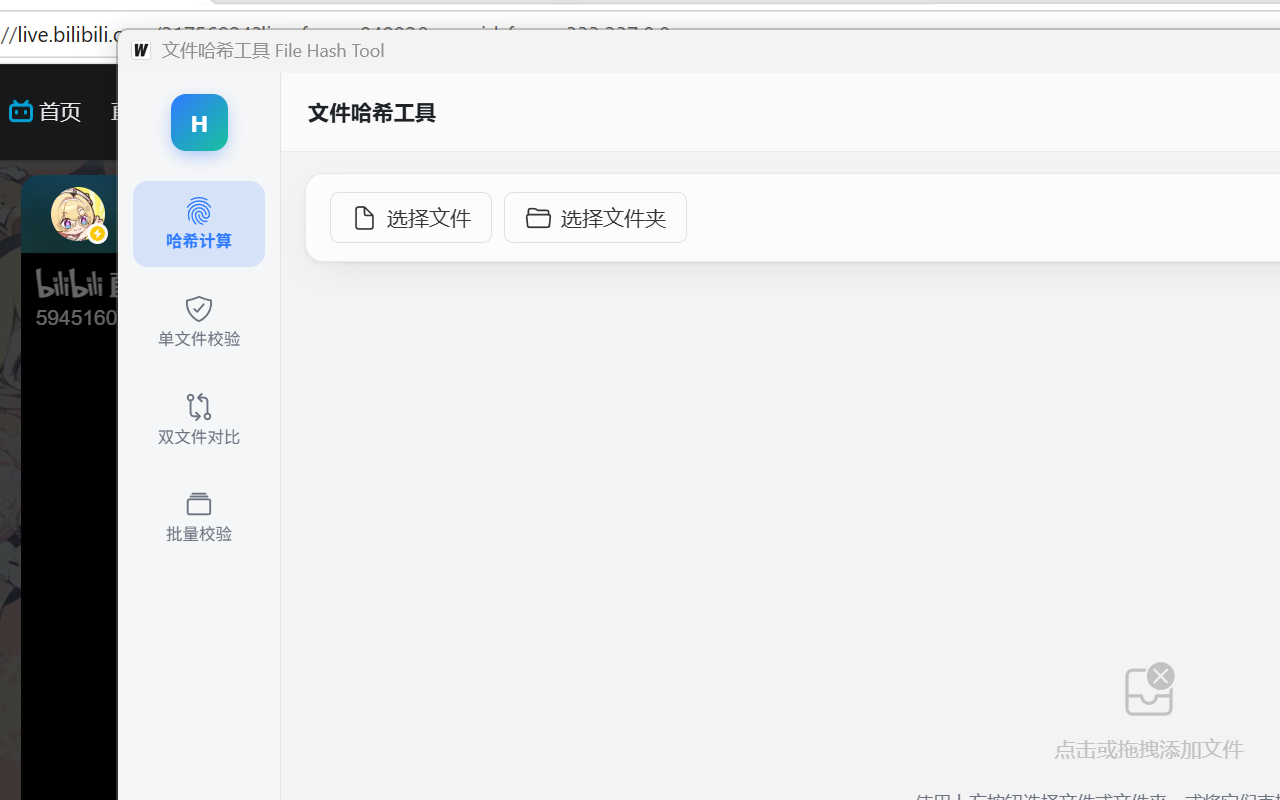
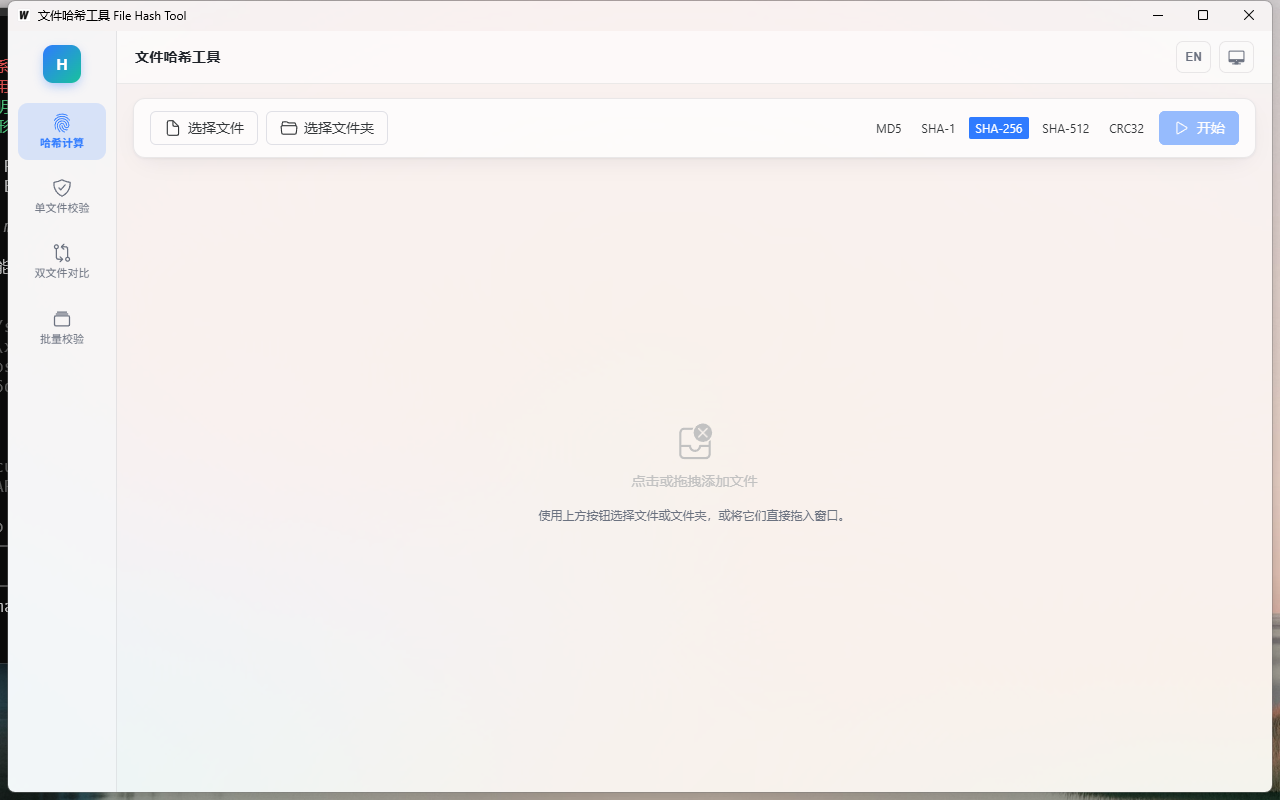
docs: MIT 协议、中英双 README（README_EN.md）、修复截图 DPI 伪影重拍主图
- LICENSE: MIT © 2026 WanQTs
- README.md 纯中文版 / README_EN.md 英文版，顶部互链，补 License 徽章
- smoke-test.ps1 声明 Per-Monitor DPI 感知，截图坐标统一物理像素，重拍 docs/screenshot-main.png

diff --git a/README.md b/README.md
@@ -5,35 +5,36 @@
 # 文件哈希工具 · File Hash Tool
 
 **Windows 64 位桌面文件哈希工具：计算 · 校验 · 对比 · 批量清单验证**
-**A fast Windows 64-bit desktop tool to compute, verify and compare file hashes.**
 
 [![Release](https://img.shields.io/github/v/release/WanQTs/GoHashTool)](https://github.com/WanQTs/GoHashTool/releases)
 ![Go](https://img.shields.io/badge/Go-1.25%2B-00ADD8?logo=go&logoColor=white)
 ![Wails](https://img.shields.io/badge/Wails-v3.0.0--beta.9-E03C31)
 ![Vue](https://img.shields.io/badge/Vue-3.5-4FC08D?logo=vuedotjs&logoColor=white)
 ![Platform](https://img.shields.io/badge/Platform-Windows_10%2F11-0078D6)
+[![License: MIT](https://img.shields.io/badge/License-MIT-green.svg)](LICENSE)
 
-<img src="docs/screenshot-main.png" alt="主界面 / Main window" width="840" />
+**简体中文 | [English](README_EN.md)**
+
+<img src="docs/screenshot-main.png" alt="主界面" width="840" />
 
 </div>
 
 ---
 
-## ✨ 功能 / Features
+## ✨ 功能
 
-- **哈希计算 / Hash**：多选文件、文件夹递归、整窗拖拽添加；MD5 / SHA-1 / SHA-256 / SHA-512 / CRC32 多算法一次扫描；结果表格虚拟滚动（十万级行数不卡）；点击哈希值复制；不可读子目录生成「无权限」结果行，绝不静默漏算。
-- **单文件校验 / Verify**：粘贴期望哈希，按长度自动识别算法（32=MD5、40=SHA-1、64=SHA-256、128=SHA-512），大字号给出「一致 / 不一致」结论。
-- **双文件对比 / Compare**：选两个文件同算法对比，并排展示各算法哈希值。
-- **批量校验 / Batch Verify**：导入 md5sum/sha256sum 标准清单（.sha256/.sha1/.sha512/.md5/.txt/.sum/.sums，支持 `#` 注释行），扩展名×哈希长度交叉校验识别算法；基准目录可切换；输出 通过/不一致/缺失/无法读取 四类统计与明细；一键导出问题项。
-- **导出 / Export**：CSV（带 UTF-8 BOM，Excel 直开不乱码）与标准 SUM 格式；导出的 SUM 可被批量校验重新导入（闭环，有集成测试保障）。CRC32 因无法重新导入而不提供 SUM 导出。
-- **界面 / UI**：Mica 云母窗口材质（Win11，低版本系统自动回退）、浅色/深色主题（默认跟随系统）、中英双语即时切换（默认跟随系统语言）、150–250ms 过渡动画、空状态引导。
+- **哈希计算**：多选文件、文件夹递归、整窗拖拽添加；MD5 / SHA-1 / SHA-256 / SHA-512 / CRC32 多算法一次扫描；结果表格虚拟滚动（十万级行数不卡）；点击哈希值复制；不可读子目录生成「无权限」结果行，绝不静默漏算。
+- **单文件校验**：粘贴期望哈希，按长度自动识别算法（32=MD5、40=SHA-1、64=SHA-256、128=SHA-512），大字号给出「一致 / 不一致」结论。
+- **双文件对比**：选两个文件同算法对比，并排展示各算法哈希值。
+- **批量校验**：导入 md5sum/sha256sum 标准清单（.sha256/.sha1/.sha512/.md5/.txt/.sum/.sums，支持 `#` 注释行），扩展名×哈希长度交叉校验识别算法；基准目录可切换；输出 通过/不一致/缺失/无法读取 四类统计与明细；一键导出问题项。
+- **导出**：CSV（带 UTF-8 BOM，Excel 直开不乱码）与标准 SUM 格式；导出的 SUM 可被批量校验重新导入（闭环，有集成测试保障）。CRC32 因无法重新导入而不提供 SUM 导出。
+- **界面**：Mica 云母窗口材质（Win11，低版本系统自动回退）、浅色/深色主题（默认跟随系统）、中英双语即时切换（默认跟随系统语言）、150–250ms 过渡动画、空状态引导。
 
-## 📥 下载 / Download
+## 📥 下载
 
 前往 [**Releases**](https://github.com/WanQTs/GoHashTool/releases) 下载 `GoHashTool-*.exe`——单文件绿色软件，双击即用，无需安装（另附 UPX 压缩版，体积更小）。
-Single-file portable exe from the [Releases page](https://github.com/WanQTs/GoHashTool/releases) — no installation needed.
 
-## 🚀 使用方法 / Usage
+## 🚀 使用方法
 
 1. **哈希计算**：点击「选择文件 / 选择文件夹」，或直接把文件/文件夹拖进窗口；勾选算法（默认 SHA-256）后点「开始」。计算中显示总进度条、当前文件、已用时间、实时速度，可随时取消。
 2. **单文件校验**：选择文件并粘贴期望哈希值，自动识别算法，完成后显示对比结论。
@@ -41,12 +42,12 @@ Single-file portable exe from the [Releases page](https://github.com/WanQTs/GoHa
 4. **批量校验**：选择清单文件（或直接把清单文件拖进窗口，会自动跳转并开始校验）；默认以清单所在目录为基准解析相对路径，也可手动指定其他基准目录。
 5. **导出**：结果出来后点击「导出 CSV」或「导出 SUM」；批量校验页可单独导出问题项。
 
-## 📊 性能实测 / Performance Report
+## 📊 性能实测
 
-测试硬件 / Test hardware:
+测试硬件：
 
-- CPU: AMD Ryzen 9 9950X 16-Core · 磁盘 / Disk: TOPMORE Dubhe NVMe SSD · 内存 / RAM: 96 GB
-- 系统 / OS: Windows 11 专业工作站版 · Go 1.26.6（标准库 SHA-256/SHA-512 走 SHA-NI/AVX2 汇编路径）
+- CPU: AMD Ryzen 9 9950X 16-Core · 磁盘: TOPMORE Dubhe NVMe SSD · 内存: 96 GB
+- 系统: Windows 11 专业工作站版 · Go 1.26.6（标准库 SHA-256/SHA-512 走 SHA-NI/AVX2 汇编路径）
 
 `go test -run='^$' -bench=. -benchtime=1x ./internal/hashcore/` 实测输出：
 
@@ -69,13 +70,12 @@ BenchmarkManySmallFiles-32        1    84642400 ns/op    10.24 MB_total
 | 内存占用 | RSS 增量 < 100 MB | 流式 + 池化缓冲，任意大小文件内存恒定；启动后 RSS ≈ 33 MB | ✅ |
 
 > 基准夹具在同一进程内跨 benchmark 复用，首轮后可能命中 OS 页缓存——上表为**热缓存吞吐**，非冷盘首读成绩。
-> Fixtures are reused within one process and may hit the OS page cache — these are warm-cache numbers.
 
 设计取舍（详见源码注释）：流式读取 + 自适应缓冲（<64MB 用 1MB、大文件 16MB，`sync.Pool` 复用）；大文件双缓冲流水线（预读与哈希计算重叠）；多算法 `io.MultiWriter` 一次扫描；小文件 worker pool 并发 `min(NumCPU, 8)`；进度上报 200ms 节流、表格数据分批 ≤500 条推送。
 
-## 🛠 从零构建 / Build from Scratch
+## 🛠 从零构建
 
-前置条件 / Prerequisites:
+前置条件：
 
 - Go 1.25+、Node.js 20.19+（Vite 7 要求）
 - Wails CLI v3：`go install github.com/wailsapp/wails/v3/cmd/wails3@v3.0.0-beta.9`
@@ -83,37 +83,37 @@ BenchmarkManySmallFiles-32        1    84642400 ns/op    10.24 MB_total
 - `wails3 doctor` 全部通过
 
 ```bash
-# 1. 安装前端依赖 / install frontend deps
+# 1. 安装前端依赖
 cd frontend && npm install && cd ..
 
 # 2. 构建单文件 exe（production：无控制台窗口；图标/清单/版本信息经 syso 嵌入）
 wails3 build
-# 产物 / output: bin/gohash.exe
+# 产物: bin/gohash.exe
 
-# 3. 可选：UPX 压缩体积 / optional: compress with upx
+# 3. 可选：UPX 压缩体积
 upx --best bin/gohash.exe
 ```
 
-开发模式 / Development:
+开发模式：
 
 ```bash
-wails3 dev                    # 热重载开发 / live-reload dev
-go test ./...                 # 单元 + 集成测试 / unit & integration tests
-go test -race ./...           # 竞态检测（需 GCC）/ race detector (needs GCC)
-go vet ./... && gofmt -l .    # 静态检查与格式 / lint & format
+wails3 dev                    # 热重载开发
+go test ./...                 # 单元 + 集成测试
+go test -race ./...           # 竞态检测（需 GCC）
+go vet ./... && gofmt -l .    # 静态检查与格式
 cd frontend && npm run test   # 前端纯函数单测（vitest）
 cd frontend && npm run build  # 前端类型检查与构建
 wails3 generate bindings -ts  # 后端方法变更后重新生成前端绑定
 ```
 
-冒烟脚本 / Smoke script:
+冒烟脚本：
 
 ```powershell
 powershell -ExecutionPolicy Bypass -File tools/smoke-test.ps1
 # 先跑 bin/gohash.exe --selftest 无界面自检（验退出码），再测启动耗时与 RSS、截图
 ```
 
-## 🗂 项目结构 / Project Structure
+## 🗂 项目结构
 
 ```
 main.go                  Wails v3 入口（窗口选项、Mica 背景、文件拖拽事件转发、--selftest 分支）
@@ -134,7 +134,7 @@ frontend/src/            Vue 3 + TypeScript + Naive UI + vue-i18n
 tools/smoke-test.ps1     冒烟测试脚本（selftest 退出码 / 启动耗时 / RSS / 截图）
 ```
 
-## 🛡 可靠性设计 / Reliability
+## 🛡 可靠性设计
 
 - 后端错误全部结构化返回（错误码 + 中英双语信息），前端统一 toast；无 panic、无静默吞错；任务 goroutine 有 recover 兜底，panic 时前端收到带 `fatal` 的完成事件而非卡死。
 - 文件被占用 / 无权限 / 已删除单独标记状态，不中断整批任务；不可读子目录生成可见错误行。
@@ -143,6 +143,10 @@ tools/smoke-test.ps1     冒烟测试脚本（selftest 退出码 / 启动耗时 
 - exe 清单声明 `longPathAware`（系统启用长路径策略后可处理超 260 字符路径）。
 - 哈希比较忽略大小写；清单解析兼容 `*文件名` 二进制标记、行首 `\` 转义、空格文件名、UTF-8 BOM、CRLF/LF 混用、`#` 注释行；重复条目按路径去重（首条胜出）。
 - 测试：Go 单测/竞态检测 + SUM 闭环集成测试 + 前端 vitest + exe 级 `--selftest` 与冒烟脚本。
+
+## 📄 开源协议
+
+[MIT License](LICENSE) © 2026 WanQTs
 
 ---
 

diff --git a/README_EN.md b/README_EN.md
@@ -1,0 +1,159 @@
+<div align="center">
+
+<img src="build/appicon.png" alt="GoHashTool logo" width="108" />
+
+# File Hash Tool · 文件哈希工具
+
+**A Windows 64-bit desktop tool to compute, verify and compare file hashes.**
+
+[![Release](https://img.shields.io/github/v/release/WanQTs/GoHashTool)](https://github.com/WanQTs/GoHashTool/releases)
+![Go](https://img.shields.io/badge/Go-1.25%2B-00ADD8?logo=go&logoColor=white)
+![Wails](https://img.shields.io/badge/Wails-v3.0.0--beta.9-E03C31)
+![Vue](https://img.shields.io/badge/Vue-3.5-4FC08D?logo=vuedotjs&logoColor=white)
+![Platform](https://img.shields.io/badge/Platform-Windows_10%2F11-0078D6)
+[![License: MIT](https://img.shields.io/badge/License-MIT-green.svg)](LICENSE)
+
+**[简体中文](README.md) | English**
+
+<img src="docs/screenshot-main.png" alt="Main window" width="840" />
+
+</div>
+
+---
+
+## ✨ Features
+
+- **Hash**: multi-select files, recursive folders, drop files anywhere in the window; MD5 / SHA-1 / SHA-256 / SHA-512 / CRC32 in a single scan; virtual-scrolled result table (handles 100k+ rows); click a hash to copy it. Unreadable subdirectories produce visible "no permission" rows — nothing is skipped silently.
+- **Verify**: paste an expected hash; the algorithm is auto-detected by length (32=MD5, 40=SHA-1, 64=SHA-256, 128=SHA-512) and a large banner states "Identical / Different".
+- **Compare**: pick two files and compare them side by side across the selected algorithms.
+- **Batch Verify**: import standard md5sum/sha256sum manifests (.sha256/.sha1/.sha512/.md5/.txt/.sum/.sums, `#` comment lines supported); the algorithm is cross-validated by file extension and hash length; switchable base directory; per-file verdicts grouped as passed / failed / missing / unreadable, with one-click export of problem rows.
+- **Export**: CSV (UTF-8 BOM, opens cleanly in Excel) and standard SUM format. Exported SUM files can be re-imported by Batch Verify (round-trip covered by integration tests). CRC32 is excluded from SUM export because it cannot be re-imported.
+- **UI**: Mica window material (Windows 11, automatic fallback on older systems), light/dark theme (follows system by default), instant Chinese/English switching (follows system language), 150–250ms transitions, empty-state guidance.
+
+## 📥 Download
+
+Grab `GoHashTool-*.exe` from the [**Releases**](https://github.com/WanQTs/GoHashTool/releases) page — a portable single file, no installation needed (a smaller UPX-compressed build is also attached).
+
+Requires 64-bit Windows 10/11 and the WebView2 Runtime (preinstalled on Windows 11).
+
+## 🚀 Usage
+
+1. **Hash**: click "Select Files / Select Folder", or drop files/folders anywhere in the window; pick algorithms (SHA-256 by default) and press Start. Live progress bar, current file, elapsed time and speed are shown; cancel anytime.
+2. **Verify**: select a file and paste the expected hash — the algorithm is detected automatically and the verdict is shown when done.
+3. **Compare**: select two files and press Start.
+4. **Batch Verify**: select a manifest (or drop one into the window — the app jumps to the page and starts automatically). Relative paths resolve against the manifest directory by default; a custom base directory can be set.
+5. **Export**: once results are in, use "Export CSV" / "Export SUM"; the Batch page can export only the problem rows.
+
+## 📊 Performance Report
+
+Test hardware:
+
+- CPU: AMD Ryzen 9 9950X 16-Core · Disk: TOPMORE Dubhe NVMe SSD · RAM: 96 GB
+- OS: Windows 11 Pro for Workstations · Go 1.26.6 (stdlib SHA-256/SHA-512 use the SHA-NI/AVX2 assembly paths)
+
+Output of `go test -run='^$' -bench=. -benchtime=1x ./internal/hashcore/`:
+
+```
+goos: windows
+goarch: amd64
+pkg: gohash/internal/hashcore
+cpu: AMD Ryzen 9 9950X 16-Core Processor
+BenchmarkSHA256LargeFile-32       1   416024500 ns/op    1074 MB_total
+BenchmarkSHA256MD5LargeFile-32    1  1324298300 ns/op    1074 MB_total
+BenchmarkManySmallFiles-32        1    84642400 ns/op    10.24 MB_total
+```
+
+| Benchmark | Target | Measured | Pass |
+| --- | --- | --- | --- |
+| SHA-256, single 1GB file | ≤ 3 s | **0.42 s** (~2.5 GB/s) | ✅ |
+| SHA-256 + MD5, same 1GB scan | ≤ 3.5 s | **1.32 s** | ✅ |
+| 10,000 × 1KB small files | ≤ 10 s | **0.08 s** | ✅ |
+| Cold start to interactive | < 2 s | **~0.45 s** (smoke script, time to window) | ✅ |
+| Memory | RSS delta < 100 MB | Streaming + pooled buffers keep memory flat for any file size; RSS ≈ 33 MB after launch | ✅ |
+
+> Benchmark fixtures are reused within a single process, so later rounds may hit the OS page cache — these are **warm-cache** numbers, not cold-disk first reads.
+
+Design trade-offs (see source comments): streaming reads with adaptive buffers (1MB below 64MB, 16MB above, recycled via `sync.Pool`); a double-buffered pipeline for large files (prefetch overlaps IO with hashing); multiple algorithms in one scan via `io.MultiWriter`; a worker pool of `min(NumCPU, 8)` for small files; 200ms-throttled progress events and result batches capped at 500 rows.
+
+## 🛠 Build from Scratch
+
+Prerequisites:
+
+- Go 1.25+, Node.js 20.19+ (required by Vite 7)
+- Wails CLI v3: `go install github.com/wailsapp/wails/v3/cmd/wails3@v3.0.0-beta.9`
+- Optional: MSYS2 MinGW-w64 GCC (only needed for `go test -race`; the exe build itself disables CGO)
+- `wails3 doctor` all green
+
+```bash
+# 1. Install frontend dependencies
+cd frontend && npm install && cd ..
+
+# 2. Build the single-file exe (production: no console window; icon/manifest/version info via syso)
+wails3 build
+# Output: bin/gohash.exe
+
+# 3. Optional: compress with UPX
+upx --best bin/gohash.exe
+```
+
+Development:
+
+```bash
+wails3 dev                    # live-reload dev mode
+go test ./...                 # unit & integration tests
+go test -race ./...           # race detector (needs GCC)
+go vet ./... && gofmt -l .    # lint & format
+cd frontend && npm run test   # frontend unit tests (vitest)
+cd frontend && npm run build  # frontend type-check & build
+wails3 generate bindings -ts  # regenerate TS bindings after Go API changes
+```
+
+Smoke script:
+
+```powershell
+powershell -ExecutionPolicy Bypass -File tools/smoke-test.ps1
+# Runs bin/gohash.exe --selftest (exit-code based functional check), then measures
+# startup time and RSS, and captures a screenshot.
+```
+
+## 🗂 Project Structure
+
+```
+main.go                  Wails v3 entry (window options, Mica backdrop, file-drop forwarding, --selftest)
+app.go                   Backend service methods, task management, progress events (200ms throttle)
+selftest.go              Headless self-check: known values / SUM round-trip / manifest parsing
+Taskfile.yml             Build orchestration entry (wails3 build wraps go-task)
+build/config.yml         Project metadata & dev-mode config
+build/windows/           Windows assets (icon.ico, info.json, wails.exe.manifest, Taskfile)
+internal/hashcore/       Hashing core: streaming engine, double-buffered pipeline, worker pool (pure Go)
+internal/checksum/       Manifest parsing, algorithm detection, compare, CSV/SUM export (pure Go)
+frontend/bindings/       Generated by wails3 generate bindings -ts (do not edit)
+frontend/src/            Vue 3 + TypeScript + Naive UI + vue-i18n
+  views/                 Four pages (hash / verify / compare / batch)
+  components/            algo-chips / result-table (virtual scroll) / progress-panel
+  stores/                pinia settings (theme, locale, localStorage-persisted)
+  locales/               zh-cn.json / en-us.json
+  api/                   Binding wrappers & task event sessions (single entry to the backend)
+tools/smoke-test.ps1     Smoke test (selftest exit code / startup time / RSS / screenshot)
+```
+
+## 🛡 Reliability
+
+- All backend errors are structured (error code + bilingual messages) and toasted in the UI — no panics, no silent swallowing. Task goroutines are recover-guarded; a panic still emits a `fatal` completion event instead of hanging the UI.
+- Occupied / no-permission / deleted files are flagged per row without aborting the batch; unreadable subtrees become visible error rows.
+- `context.Context` flows through every task; cancellation takes effect within 1 second, and cancel handles are registered atomically with the task.
+- Only the last 4 finished task results are retained for re-export; exports write a temp file then rename (atomic replace).
+- The exe manifest declares `longPathAware` (paths beyond 260 chars when the system policy allows).
+- Hash comparison is case-insensitive; the manifest parser tolerates `*filename` binary markers, GNU `\` line escapes, filenames with spaces, UTF-8 BOM, mixed CRLF/LF and `#` comments; duplicate entries are deduped by path (first wins).
+- Testing: Go unit tests + race detector + SUM round-trip integration test + frontend vitest + exe-level `--selftest` and smoke script.
+
+## 📄 License
+
+[MIT License](LICENSE) © 2026 WanQTs
+
+---
+
+<div align="center">
+  Legacy: the Wails v2 codebase is archived on the
+  <a href="https://github.com/WanQTs/GoHashTool/tree/v2"><code>v2</code></a> branch.
+</div>
